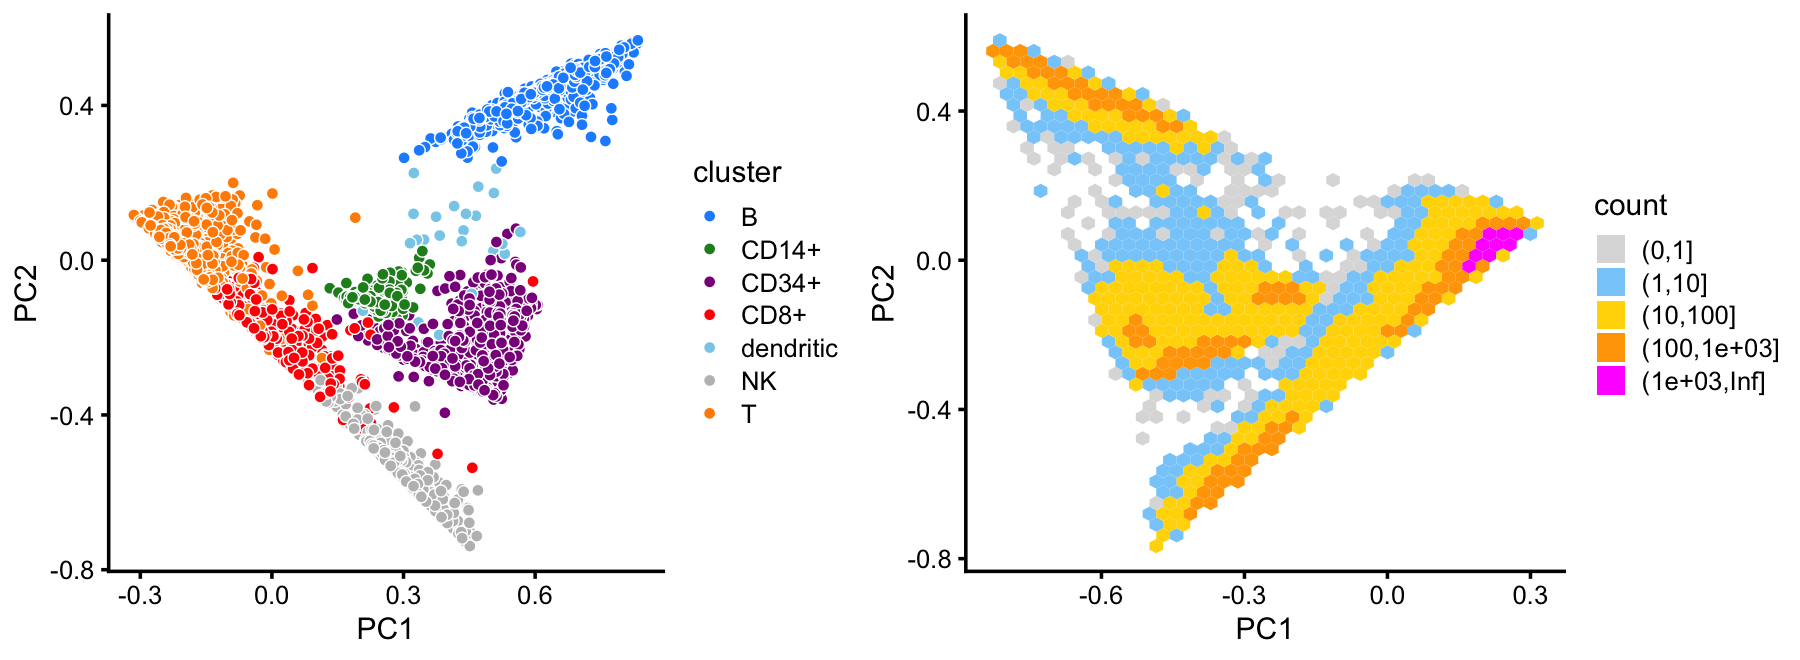
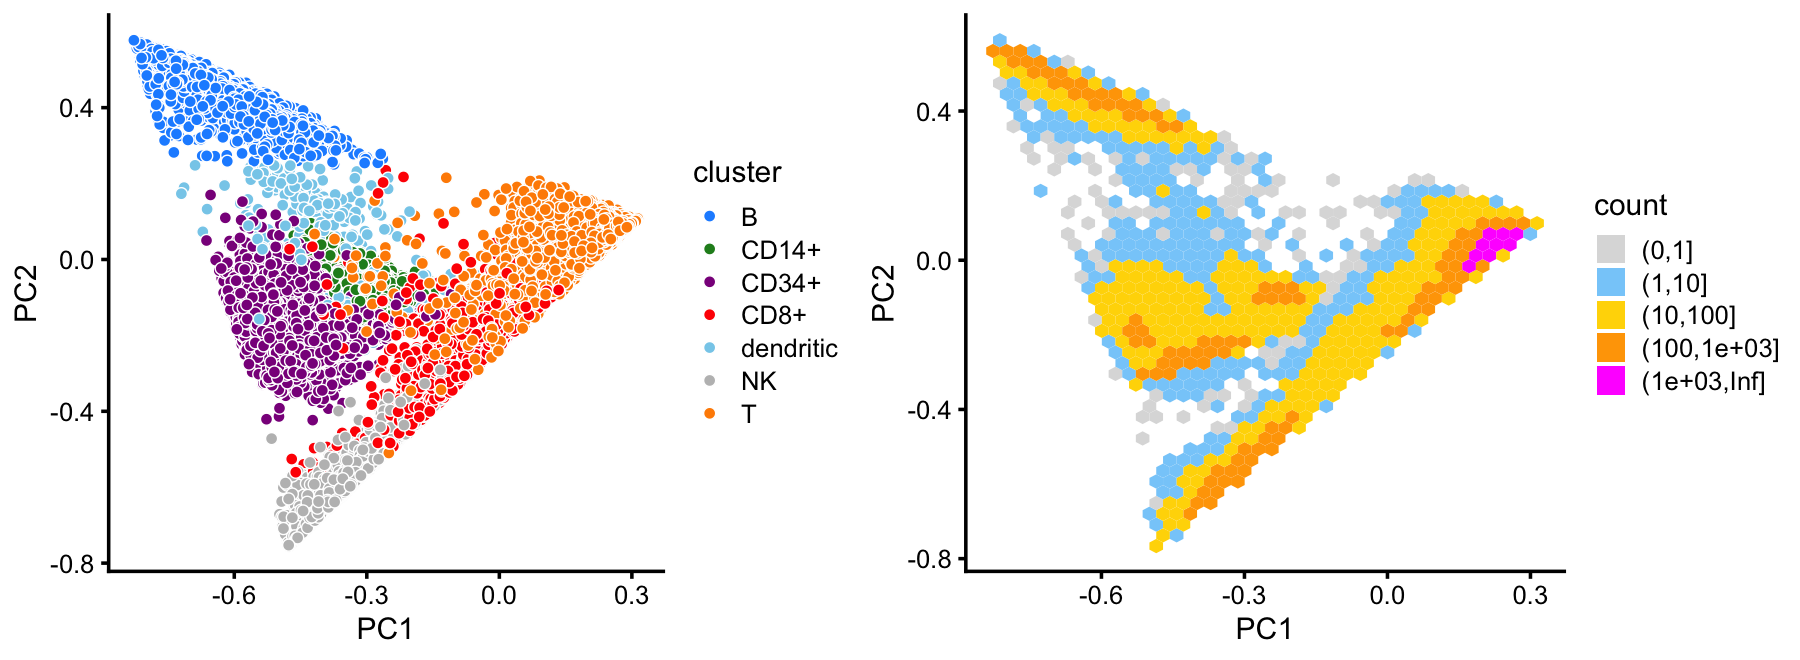
Added checks for cluster labels to clusters_purified_pbmc analysis.

diff --git a/docs/clusters_purified_pbmc.html b/docs/clusters_purified_pbmc.html
@@ -323,7 +323,7 @@ $(document).ready(function () {
 <div class="tab-content">
 <div id="summary" class="tab-pane fade in active">
 <p>
-<strong>Last updated:</strong> 2021-12-01
+<strong>Last updated:</strong> 2021-12-07
 </p>
 <p>
 <strong>Checks:</strong> <span class="glyphicon glyphicon-ok text-success" aria-hidden="true"></span> 7 <span class="glyphicon glyphicon-exclamation-sign text-danger" aria-hidden="true"></span> 0
@@ -414,16 +414,16 @@ This reproducible <a href="http://rmarkdown.rstudio.com">R Markdown</a> analysis
 <div class="panel panel-default">
 <div class="panel-heading">
 <p class="panel-title">
-<a data-toggle="collapse" data-parent="#workflowr-checks" href="#strongRepositoryversionstrongahrefhttpsgithubcomstephenslabsinglecelltopicstree1938a3ad316ebb7e938a36407e8d875d10d3f5a9targetblank1938a3aa"> <span class="glyphicon glyphicon-ok text-success" aria-hidden="true"></span> <strong>Repository version:</strong> <a href="https://github.com/stephenslab/single-cell-topics/tree/1938a3ad316ebb7e938a36407e8d875d10d3f5a9" target="_blank">1938a3a</a> </a>
+<a data-toggle="collapse" data-parent="#workflowr-checks" href="#strongRepositoryversionstrongahrefhttpsgithubcomstephenslabsinglecelltopicstree5be067bb02ee44a6cb08a75e1fdebc7cdb5079e9targetblank5be067ba"> <span class="glyphicon glyphicon-ok text-success" aria-hidden="true"></span> <strong>Repository version:</strong> <a href="https://github.com/stephenslab/single-cell-topics/tree/5be067bb02ee44a6cb08a75e1fdebc7cdb5079e9" target="_blank">5be067b</a> </a>
 </p>
 </div>
[2 lines of base64/hex data omitted]
 <div class="panel-body">
 <p>
 Great! You are using Git for version control. Tracking code development and connecting the code version to the results is critical for reproducibility.
 </p>
 <p>
-The results in this page were generated with repository version <a href="https://github.com/stephenslab/single-cell-topics/tree/1938a3ad316ebb7e938a36407e8d875d10d3f5a9" target="_blank">1938a3a</a>. See the <em>Past versions</em> tab to see a history of the changes made to the R Markdown and HTML files.
+The results in this page were generated with repository version <a href="https://github.com/stephenslab/single-cell-topics/tree/5be067bb02ee44a6cb08a75e1fdebc7cdb5079e9" target="_blank">5be067b</a>. See the <em>Past versions</em> tab to see a history of the changes made to the R Markdown and HTML files.
 </p>
 <p>
 Note that you need to be careful to ensure that all relevant files for the analysis have been committed to Git prior to generating the results (you can use <code>wflow_publish</code> or <code>wflow_git_commit</code>). workflowr only checks the R Markdown file, but you know if there are other scripts or data files that it depends on. Below is the status of the Git repository when the results were generated:
@@ -447,12 +447,13 @@ Ignored files:
     Ignored:    output/pulseseq/rds/
 
 Untracked files:
+    Untracked:  analysis/clustering-pbmc-purified.rds
     Untracked:  analysis/de_analysis_detailed_look_cache/
     Untracked:  analysis/de_analysis_detailed_look_more_cache/
     Untracked:  plots/
 
 Unstaged changes:
-    Modified:   analysis/de_analysis_purified_pbmc.Rmd
+    Modified:   analysis/temp4.R
 
 </code></pre>
 <p>
@@ -491,6 +492,40 @@ Message
 </tr>
 </thead>
 <tbody>
+<tr>
+<td>
+Rmd
+</td>
+<td>
+<a href="https://github.com/stephenslab/single-cell-topics/blob/5be067bb02ee44a6cb08a75e1fdebc7cdb5079e9/analysis/clusters_purified_pbmc.Rmd" target="_blank">5be067b</a>
+</td>
+<td>
+Peter Carbonetto
+</td>
+<td>
+2021-12-07
+</td>
+<td>
+workflowr::wflow_publish(“clusters_purified_pbmc.Rmd”, verbose = TRUE)
+</td>
+</tr>
+<tr>
+<td>
+html
+</td>
+<td>
+<a href="https://rawcdn.githack.com/stephenslab/single-cell-topics/f5c1c59bc3522c6fdd1c10e52b2f9ea759868243/docs/clusters_purified_pbmc.html" target="_blank">f5c1c59</a>
+</td>
+<td>
+Peter Carbonetto
+</td>
+<td>
+2021-12-01
+</td>
+<td>
+A few small updates to the clusters_purified_pbmc analysis.
+</td>
+</tr>
 <tr>
 <td>
 Rmd
@@ -1457,7 +1492,7 @@ table(samples$celltype)
 <pre class="r"><code>fit &lt;- readRDS(file.path(&quot;../output/pbmc-purified/rds&quot;,
                          &quot;fit-pbmc-purified-scd-ex-k=6.rds&quot;))$fit
 fit &lt;- poisson2multinom(fit)</code></pre>
-<p>From the PCs of the mixture proportions, we define clusters for B cells, CD14+ cells and CD34+ cells. The remaining cells are assigned to the U cluster (“U” for “unknown”). (We labels “B”, “CD14+” and “CD34+” so that we can conveniently refer to them, noting that the labels are informed by downstream analyses.)</p>
+<p>From the PCs of the mixture proportions, we define clusters for B cells, CD14+ cells and CD34+ cells. (See the very bottom of this analysis for quick check that these cluster labels make sense.) The remaining cells are assigned to the U cluster (“U” for “unknown”). (We labels “B”, “CD14+” and “CD34+” so that we can conveniently refer to them, noting that the labels are informed by downstream analyses.)</p>
 <pre class="r"><code>pca &lt;- prcomp(fit$L)$x
 n   &lt;- nrow(pca)
 x   &lt;- rep(&quot;U&quot;,n)
@@ -1506,7 +1541,7 @@ table(samples$cluster)
                     &quot;skyblue&quot;,     # dendritic
                     &quot;gray&quot;,        # NK
                     &quot;darkorange&quot;)  # T cells
-p1 &lt;- pca_plot(fit,fill = samples$cluster) +
+p1 &lt;- pca_plot(fit,fill = samples$cluster,n = Inf) +
   scale_fill_manual(values = cluster_colors) +
   labs(fill = &quot;cluster&quot;)
 p2 &lt;- pca_hexbin_plot(fit)
@@ -1534,6 +1569,17 @@ Date
 </tr>
 </thead>
 <tbody>
+<tr>
+<td>
+<a href="https://github.com/stephenslab/single-cell-topics/blob/f5c1c59bc3522c6fdd1c10e52b2f9ea759868243/docs/figure/clusters_purified_pbmc.Rmd/clustering-5-1.png" target="_blank">f5c1c59</a>
+</td>
+<td>
+Peter Carbonetto
+</td>
+<td>
+2021-12-01
+</td>
+</tr>
 <tr>
 <td>
 <a href="https://github.com/stephenslab/single-cell-topics/blob/edaec3f931a8b46d040f885d54dd8564d5e3054c/docs/figure/clusters_purified_pbmc.Rmd/clustering-5-1.png" target="_blank">edaec3f</a>
@@ -1621,7 +1667,7 @@ celltype[celltype == &quot;CD4+ T Helper2&quot; |
   celltype == &quot;CD4+/CD45RA+/CD25- Naive T&quot; | 
   celltype == &quot;CD4+/CD25 T Reg&quot;] &lt;- &quot;T cell&quot;
 celltype &lt;- factor(celltype)
-p3 &lt;- pca_plot(fit,fill = celltype) +
+p3 &lt;- pca_plot(fit,fill = celltype,n = Inf) +
   scale_fill_manual(values = facs_colors) +
   labs(fill = &quot;FACS subpopulation&quot;)
 print(p3)</code></pre>
@@ -1648,6 +1694,17 @@ Date
 </tr>
 </thead>
 <tbody>
+<tr>
+<td>
+<a href="https://github.com/stephenslab/single-cell-topics/blob/f5c1c59bc3522c6fdd1c10e52b2f9ea759868243/docs/figure/clusters_purified_pbmc.Rmd/clustering-7-1.png" target="_blank">f5c1c59</a>
+</td>
+<td>
+Peter Carbonetto
+</td>
+<td>
+2021-12-01
+</td>
+</tr>
 <tr>
 <td>
 <a href="https://github.com/stephenslab/single-cell-topics/blob/a7c641fe3b3a248ff72460c5e31f3d5965781119/docs/figure/clusters_purified_pbmc.Rmd/clustering-7-1.png" target="_blank">a7c641f</a>
@@ -1769,6 +1826,17 @@ Date
 <tbody>
 <tr>
 <td>
+<a href="https://github.com/stephenslab/single-cell-topics/blob/f5c1c59bc3522c6fdd1c10e52b2f9ea759868243/docs/figure/clusters_purified_pbmc.Rmd/structure-plot-1.png" target="_blank">f5c1c59</a>
+</td>
+<td>
+Peter Carbonetto
+</td>
+<td>
+2021-12-01
+</td>
+</tr>
+<tr>
+<td>
 <a href="https://github.com/stephenslab/single-cell-topics/blob/890a1cedb60b8d1ead3cf9390923e3063d795b11/docs/figure/clusters_purified_pbmc.Rmd/structure-plot-1.png" target="_blank">890a1ce</a>
 </td>
 <td>
@@ -1883,6 +1951,17 @@ Date
 <tbody>
 <tr>
 <td>
+<a href="https://github.com/stephenslab/single-cell-topics/blob/f5c1c59bc3522c6fdd1c10e52b2f9ea759868243/docs/figure/clusters_purified_pbmc.Rmd/structure-plot-2-1.png" target="_blank">f5c1c59</a>
+</td>
+<td>
+Peter Carbonetto
+</td>
+<td>
+2021-12-01
+</td>
+</tr>
+<tr>
+<td>
 <a href="https://github.com/stephenslab/single-cell-topics/blob/890a1cedb60b8d1ead3cf9390923e3063d795b11/docs/figure/clusters_purified_pbmc.Rmd/structure-plot-2-1.png" target="_blank">890a1ce</a>
 </td>
 <td>
@@ -1953,6 +2032,74 @@ Peter Carbonetto
 </div>
 <p>Save the clustering of the PBMC data to an RDS file.</p>
 <pre class="r"><code>saveRDS(samples,&quot;clustering-pbmc-purified.rds&quot;)</code></pre>
+<p>Here we run a “quick and dirty” analysis to check the cluster labels by computing “least extreme” LFC estimates and K-L divergence scores:</p>
+<pre class="r"><code>fit_clusters &lt;- fit_multinom_model(samples$cluster,counts)
+B &lt;- fastTopics:::le_lfc(fit_clusters$F,e = 1e-8)
+D &lt;- fastTopics:::min_kl_poisson(fit_clusters$F)</code></pre>
+<p>Top genes in the “B cells” cluster:</p>
+<pre class="r"><code>k   &lt;- &quot;B&quot;
+dat &lt;- cbind(genes,data.frame(lfc = B[,k],kl = D[,k]))
+print(subset(dat,lfc &gt; 3 &amp; kl &gt; 0.001))
+#               ensembl    symbol      lfc          kl
+# 18945 ENSG00000156738     MS4A1 5.114135 0.002483689
+# 23289 ENSG00000100721     TCL1A 5.080792 0.001804630
+# 23927 ENSG00000247982 LINC00926 6.087069 0.001342164
+# 27508 ENSG00000007312     CD79B 4.459434 0.004541300
+# 30657 ENSG00000105369     CD79A 3.912082 0.004706088
+# 31699 ENSG00000128218    VPREB3 5.217585 0.001028539</code></pre>
+<p>Top genes in the “CD14+” cluster:</p>
+<pre class="r"><code>k   &lt;- &quot;CD14+&quot;
+dat &lt;- cbind(genes,data.frame(lfc = B[,k],kl = D[,k]))
+subset(dat,lfc &gt; 3 &amp; kl &gt; 0.001)
+#              ensembl symbol      lfc          kl
+# 1956 ENSG00000163220 S100A9 3.083904 0.013008237
+# 1958 ENSG00000143546 S100A8 3.309013 0.013556268
+# 9634 ENSG00000170458   CD14 3.300589 0.001572774</code></pre>
+<p>Top genes in the “CD34+” cluster:</p>
+<pre class="r"><code>k   &lt;- &quot;CD34+&quot;
+dat &lt;- cbind(genes,data.frame(lfc = B[,k],kl = D[,k]))
+subset(dat,lfc &gt; 5 &amp; kl &gt; 3e-4)
+#               ensembl        symbol      lfc           kl
+# 2744  ENSG00000174059          CD34 5.167976 0.0003279023
+# 3872  ENSG00000119865        CNRIP1 6.241944 0.0003169037
+# 7232  ENSG00000170891         CYTL1 5.664702 0.0011725756
+# 7856  ENSG00000163106         HPGDS 6.999871 0.0003126782
+# 13038 ENSG00000204983         PRSS1 5.406293 0.0007416350
+# 16790 ENSG00000172889         EGFL7 5.545776 0.0007007256
+# 17065 ENSG00000233968 RP11-354E11.2 6.403424 0.0005120880
+# 18751 ENSG00000110492           MDK 5.195610 0.0003366275
+# 28627 ENSG00000101200           AVP 6.276046 0.0004569793
+# 29544 ENSG00000095932      C19orf77 5.110764 0.0006198187</code></pre>
+<p>Top genes in the “CD8+ T cells” cluster:</p>
+<pre class="r"><code>k   &lt;- &quot;CD8+&quot;
+dat &lt;- cbind(genes,data.frame(lfc = B[,k],kl = D[,k]))
+subset(dat,lfc &gt; 1.5 &amp; kl &gt; 1e-4)
+#               ensembl symbol      lfc           kl
+# 561   ENSG00000176083 ZNF683 3.081122 0.0001286671
+# 4065  ENSG00000153563   CD8A 1.802188 0.0001820851
+# 8887  ENSG00000113088   GZMK 2.918688 0.0010744353
+# 20246 ENSG00000111796  KLRB1 2.486709 0.0002181944</code></pre>
+<p>Top genes in the “NK cells” cluster:</p>
+<pre class="r"><code>k   &lt;- &quot;NK&quot;
+dat &lt;- cbind(genes,data.frame(lfc = B[,k],kl = D[,k]))
+subset(dat,lfc &gt; 2 &amp; kl &gt; 0.001)
+#               ensembl symbol      lfc          kl
+# 4047  ENSG00000115523   GNLY 2.584700 0.014035967
+# 16816 ENSG00000169583  CLIC3 3.369812 0.002243863
+# 17450 ENSG00000180644   PRF1 2.725144 0.001059490
+# 20246 ENSG00000111796  KLRB1 2.577032 0.001376575
+# 20252 ENSG00000150045  KLRF1 5.309548 0.001719737
+# 22590 ENSG00000100453   GZMB 2.958679 0.002752145</code></pre>
+<p>Top genes in the “dendritic cells” cluster:</p>
+<pre class="r"><code>k   &lt;- &quot;dendritic&quot;
+dat &lt;- cbind(genes,data.frame(lfc = B[,k],kl = D[,k]))
+subset(dat,lfc &gt; 4 &amp; kl &gt; 1e-4)
+#               ensembl   symbol      lfc           kl
+# 1583  ENSG00000155367    PPM1J 4.006179 0.0001169833
+# 6028  ENSG00000163687 DNASE1L3 4.157729 0.0008080376
+# 14715 ENSG00000131203     IDO1 6.134402 0.0003588578
+# 20263 ENSG00000197992   CLEC9A 4.281489 0.0004500294
+# 26175 ENSG00000182853     VMO1 5.309791 0.0001345992</code></pre>
 <br>
 <p>
 <button type="button" class="btn btn-default btn-workflowr btn-workflowr-sessioninfo" data-toggle="collapse" data-target="#workflowr-sessioninfo" style="display: block;">
@@ -1976,7 +2123,7 @@ Peter Carbonetto
 # [1] stats     graphics  grDevices utils     datasets  methods   base     
 # 
 # other attached packages:
-# [1] cowplot_1.0.0     ggplot2_3.3.5     fastTopics_0.6-93 Matrix_1.2-18    
+# [1] cowplot_1.0.0     ggplot2_3.3.5     fastTopics_0.6-94 Matrix_1.2-18    
 # 
 # loaded via a namespace (and not attached):
 #  [1] httr_1.4.2         tidyr_1.1.3        jsonlite_1.7.2     viridisLite_0.3.0 
